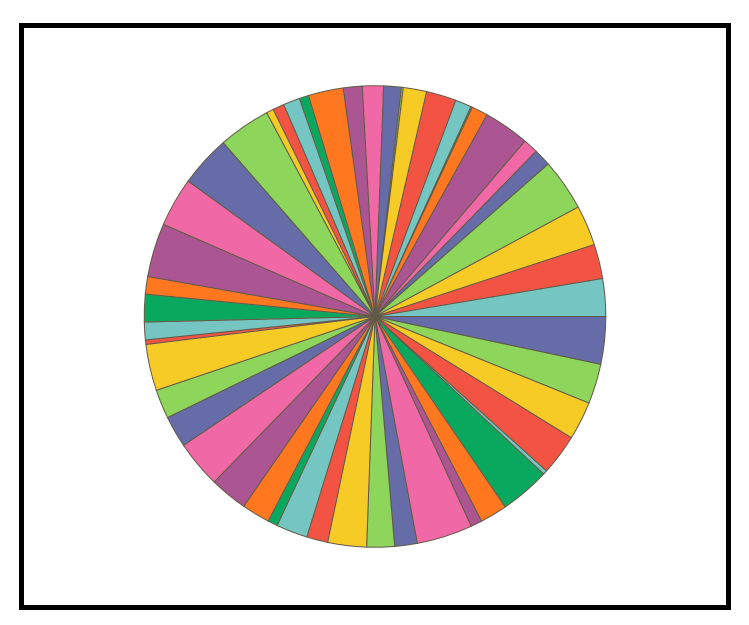
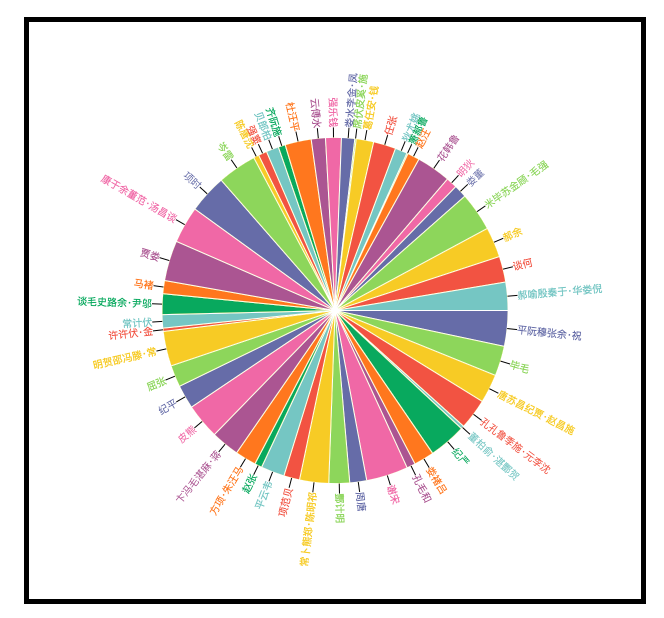
添加提示文字

diff --git a/index.js b/index.js
@@ -9,7 +9,7 @@ var initConfig = function (attr, that) {
 
     if (attr.cx == null) attr.cx = that._width * 0.5;
     if (attr.cy == null) attr.cy = that._height * 0.5;
-    if (attr.radius == null) attr.radius = that._min * 0.4;
+    if (attr.radius == null) attr.radius = that._min * 0.3;
 
     attr._allValue = 0;
     for (i = 0; i < attr.data.length; i++) {
@@ -18,7 +18,7 @@ var initConfig = function (attr, that) {
 
 };
 
-export default ['number', 'json', '$getLoopColors', function ($number, $json, $getLoopColors) {
+export default ['number', 'json', '$getLoopColors', '$rotate', function ($number, $json, $getLoopColors, $rotate) {
     return {
         attrs: {
 
@@ -29,8 +29,7 @@ export default ['number', 'json', '$getLoopColors', function ($number, $json, $g
 
             // 数据
             // [{name:"",value:""},...]
-            data: $json(),
-
+            data: $json()
         },
         region: {
             default: function (render, attr) {
@@ -52,14 +51,40 @@ export default ['number', 'json', '$getLoopColors', function ($number, $json, $g
         link: function (painter, attr) {
             initConfig(attr, this);
 
-            var i, colors = $getLoopColors(attr.data.length), beginDeg = 0, deg;
+            painter.config({
+                'font-size': 10
+            });
+
+            var i, colors = $getLoopColors(attr.data.length), beginDeg = 0, deg, dot1, dot2;
 
             for (i = 0; i < attr.data.length; i++) {
                 deg = attr.data[i].value / attr._allValue * Math.PI * 2;
                 painter.config({
-                    'strokeStyle': "#555555",
+                    'strokeStyle': "white",
                     'fillStyle': colors[i]
                 }).fullArc(attr.cx, attr.cy, 0, attr.radius, beginDeg, deg);
+
+                // 绘制提示文字和连线
+
+                var _deg = beginDeg + deg * 0.5;
+                var _isLeft = _deg > Math.PI * 0.5 && _deg < Math.PI * 1.5;
+
+                dot1 = $rotate(attr.cx, attr.cy, _deg, attr.cx + attr.radius, attr.cy);
+                dot2 = $rotate(attr.cx, attr.cy, _deg, attr.cx + attr.radius + 10, attr.cy);
+
+                painter
+                    .config({
+                        'strokeStyle': "#000000"
+                    })
+                    .beginPath()
+                    .moveTo(dot1[0], dot1[1])
+                    .lineTo(dot2[0], dot2[1])
+                    .stroke();
+
+                painter.config({
+                    "textAlign": _isLeft ? "right" : "left"
+                }).fillText(attr.data[i].name, dot2[0], dot2[1], _isLeft ? _deg - Math.PI : _deg);
+
                 beginDeg += deg;
             }
 

diff --git a/README.md b/README.md
@@ -42,7 +42,7 @@ Clunch.series('ui-pie',pie);
 |----|----|----|----|----|
 |cx|number|图形中心位置横坐标|画布中心横坐标||
 |cy|number|图形中心位置纵坐标|画布中心纵坐标||
-|radius|number|图形半径|画布最小边的40%||
+|radius|number|图形半径|画布最小边的30%||
 
 由于此组件是基于[Clunch](https://github.com/hai2007/clunch)开发的，我们默认你已经掌握了相关知识。
 
